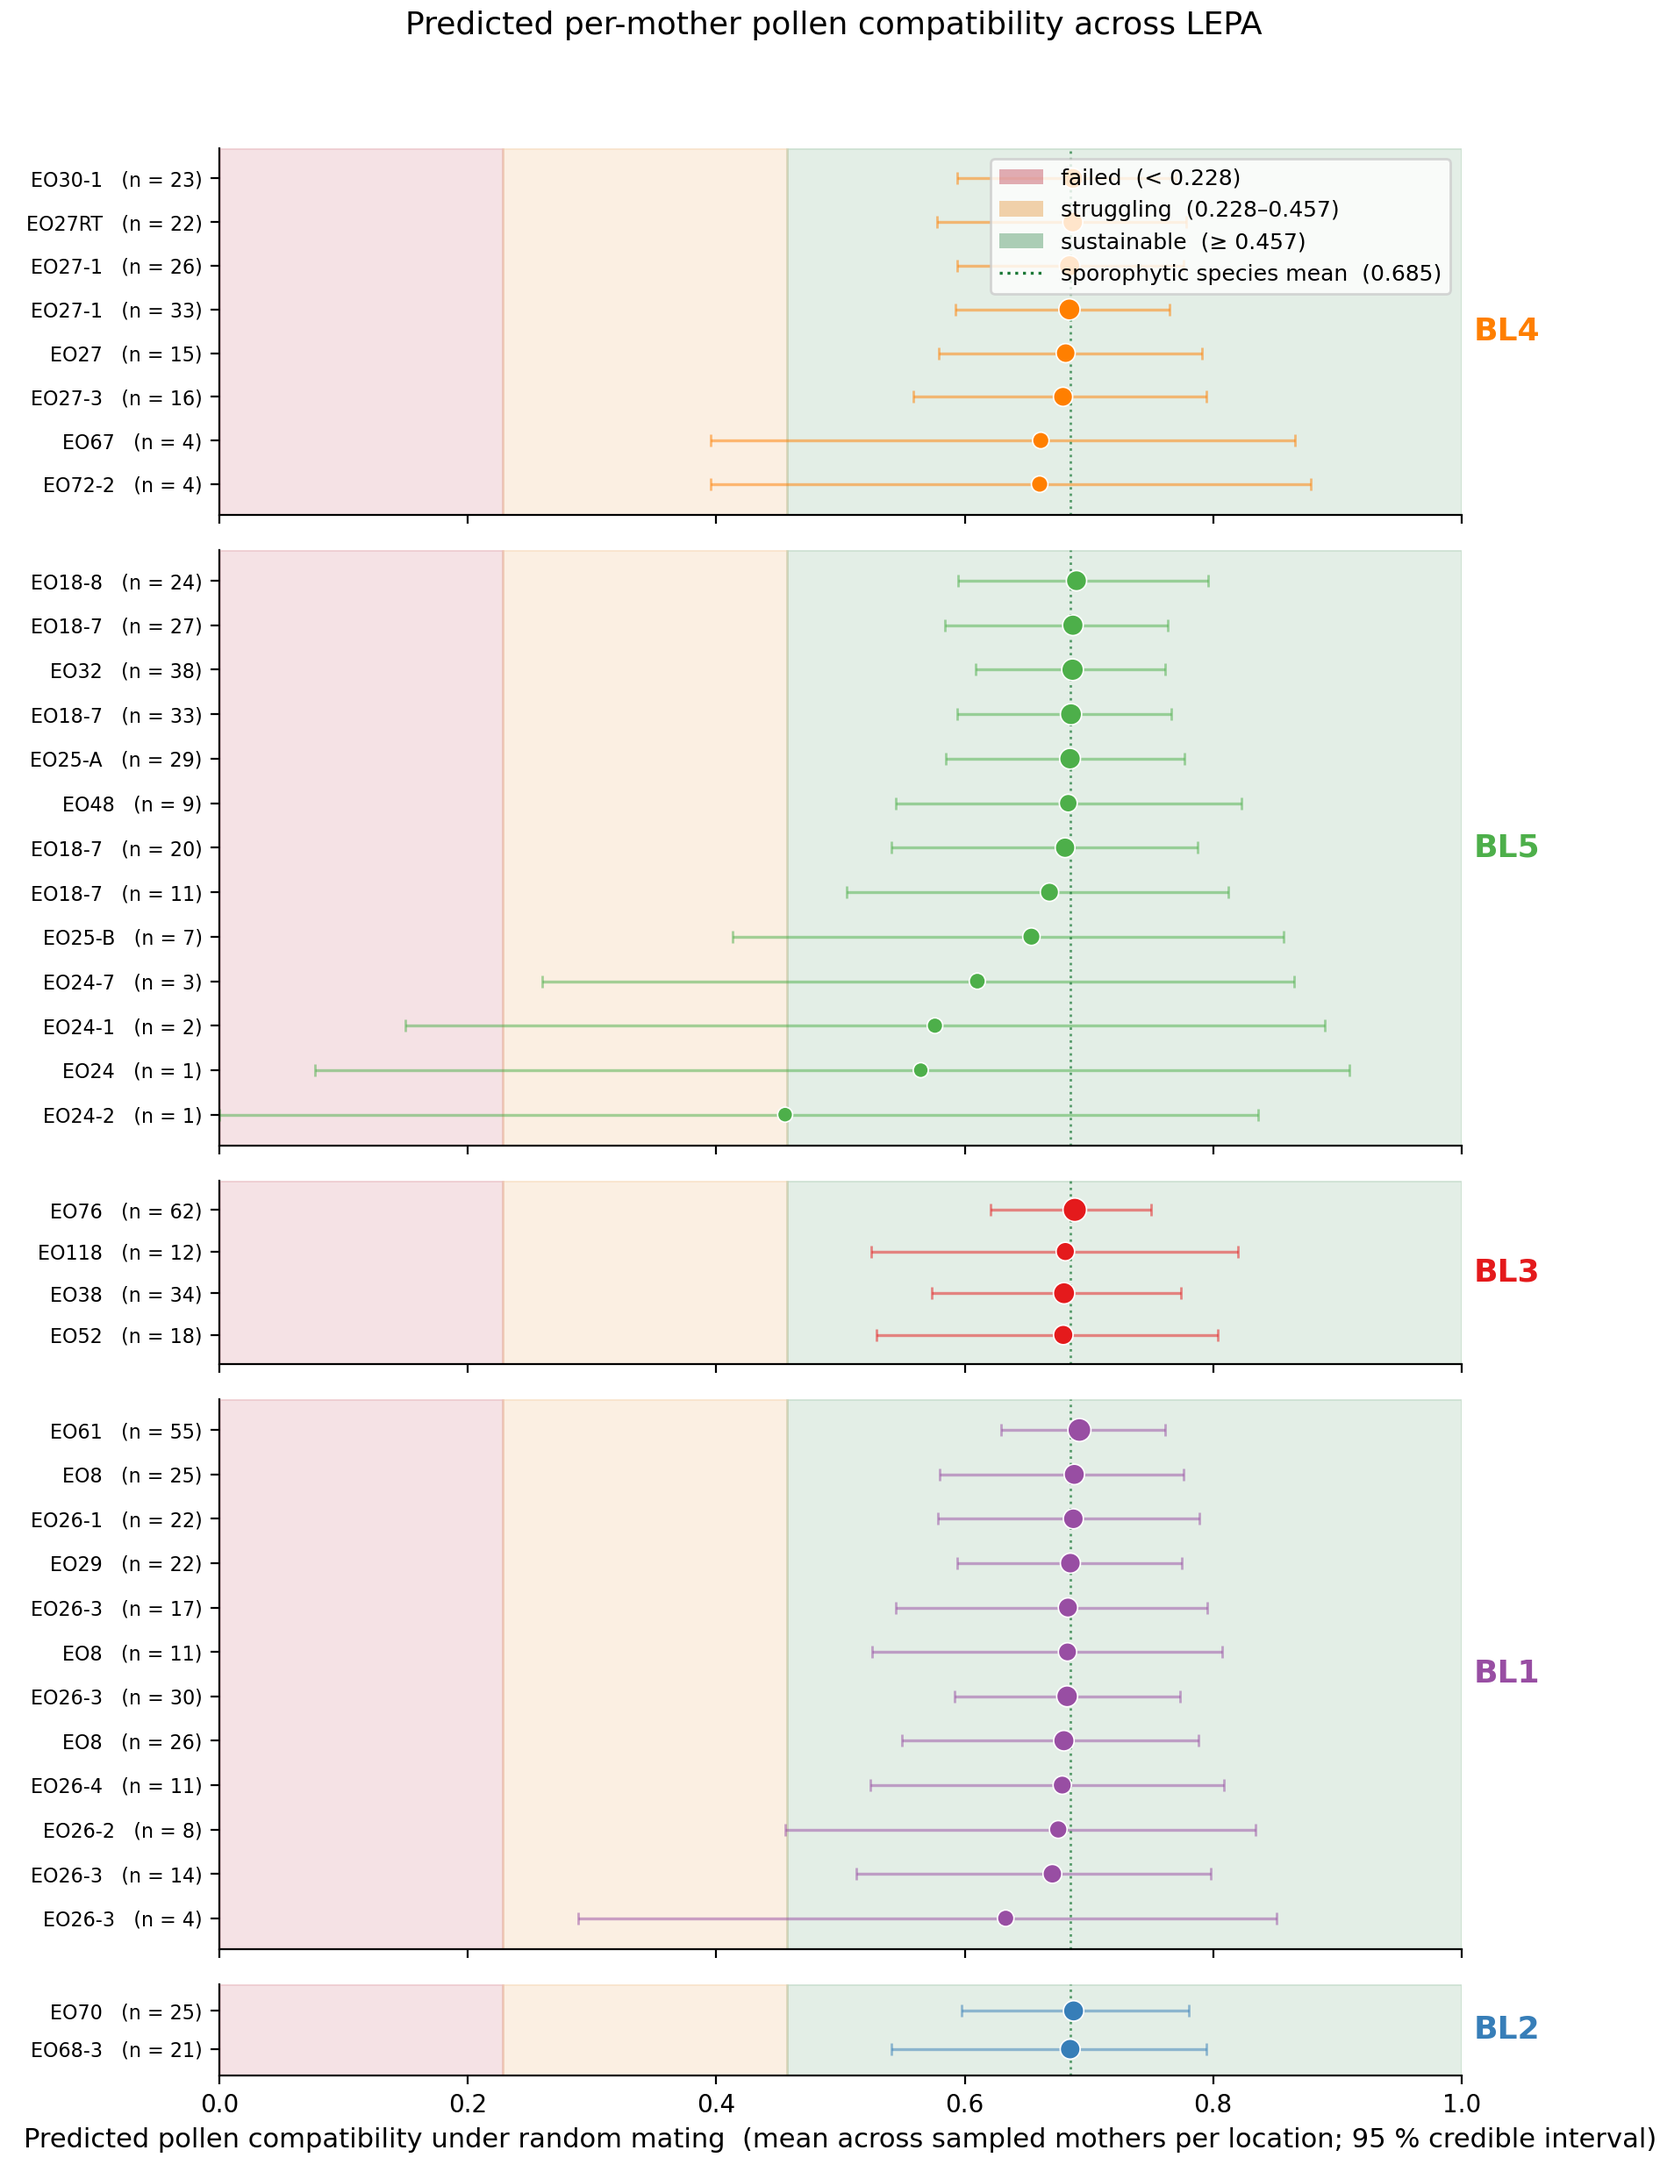
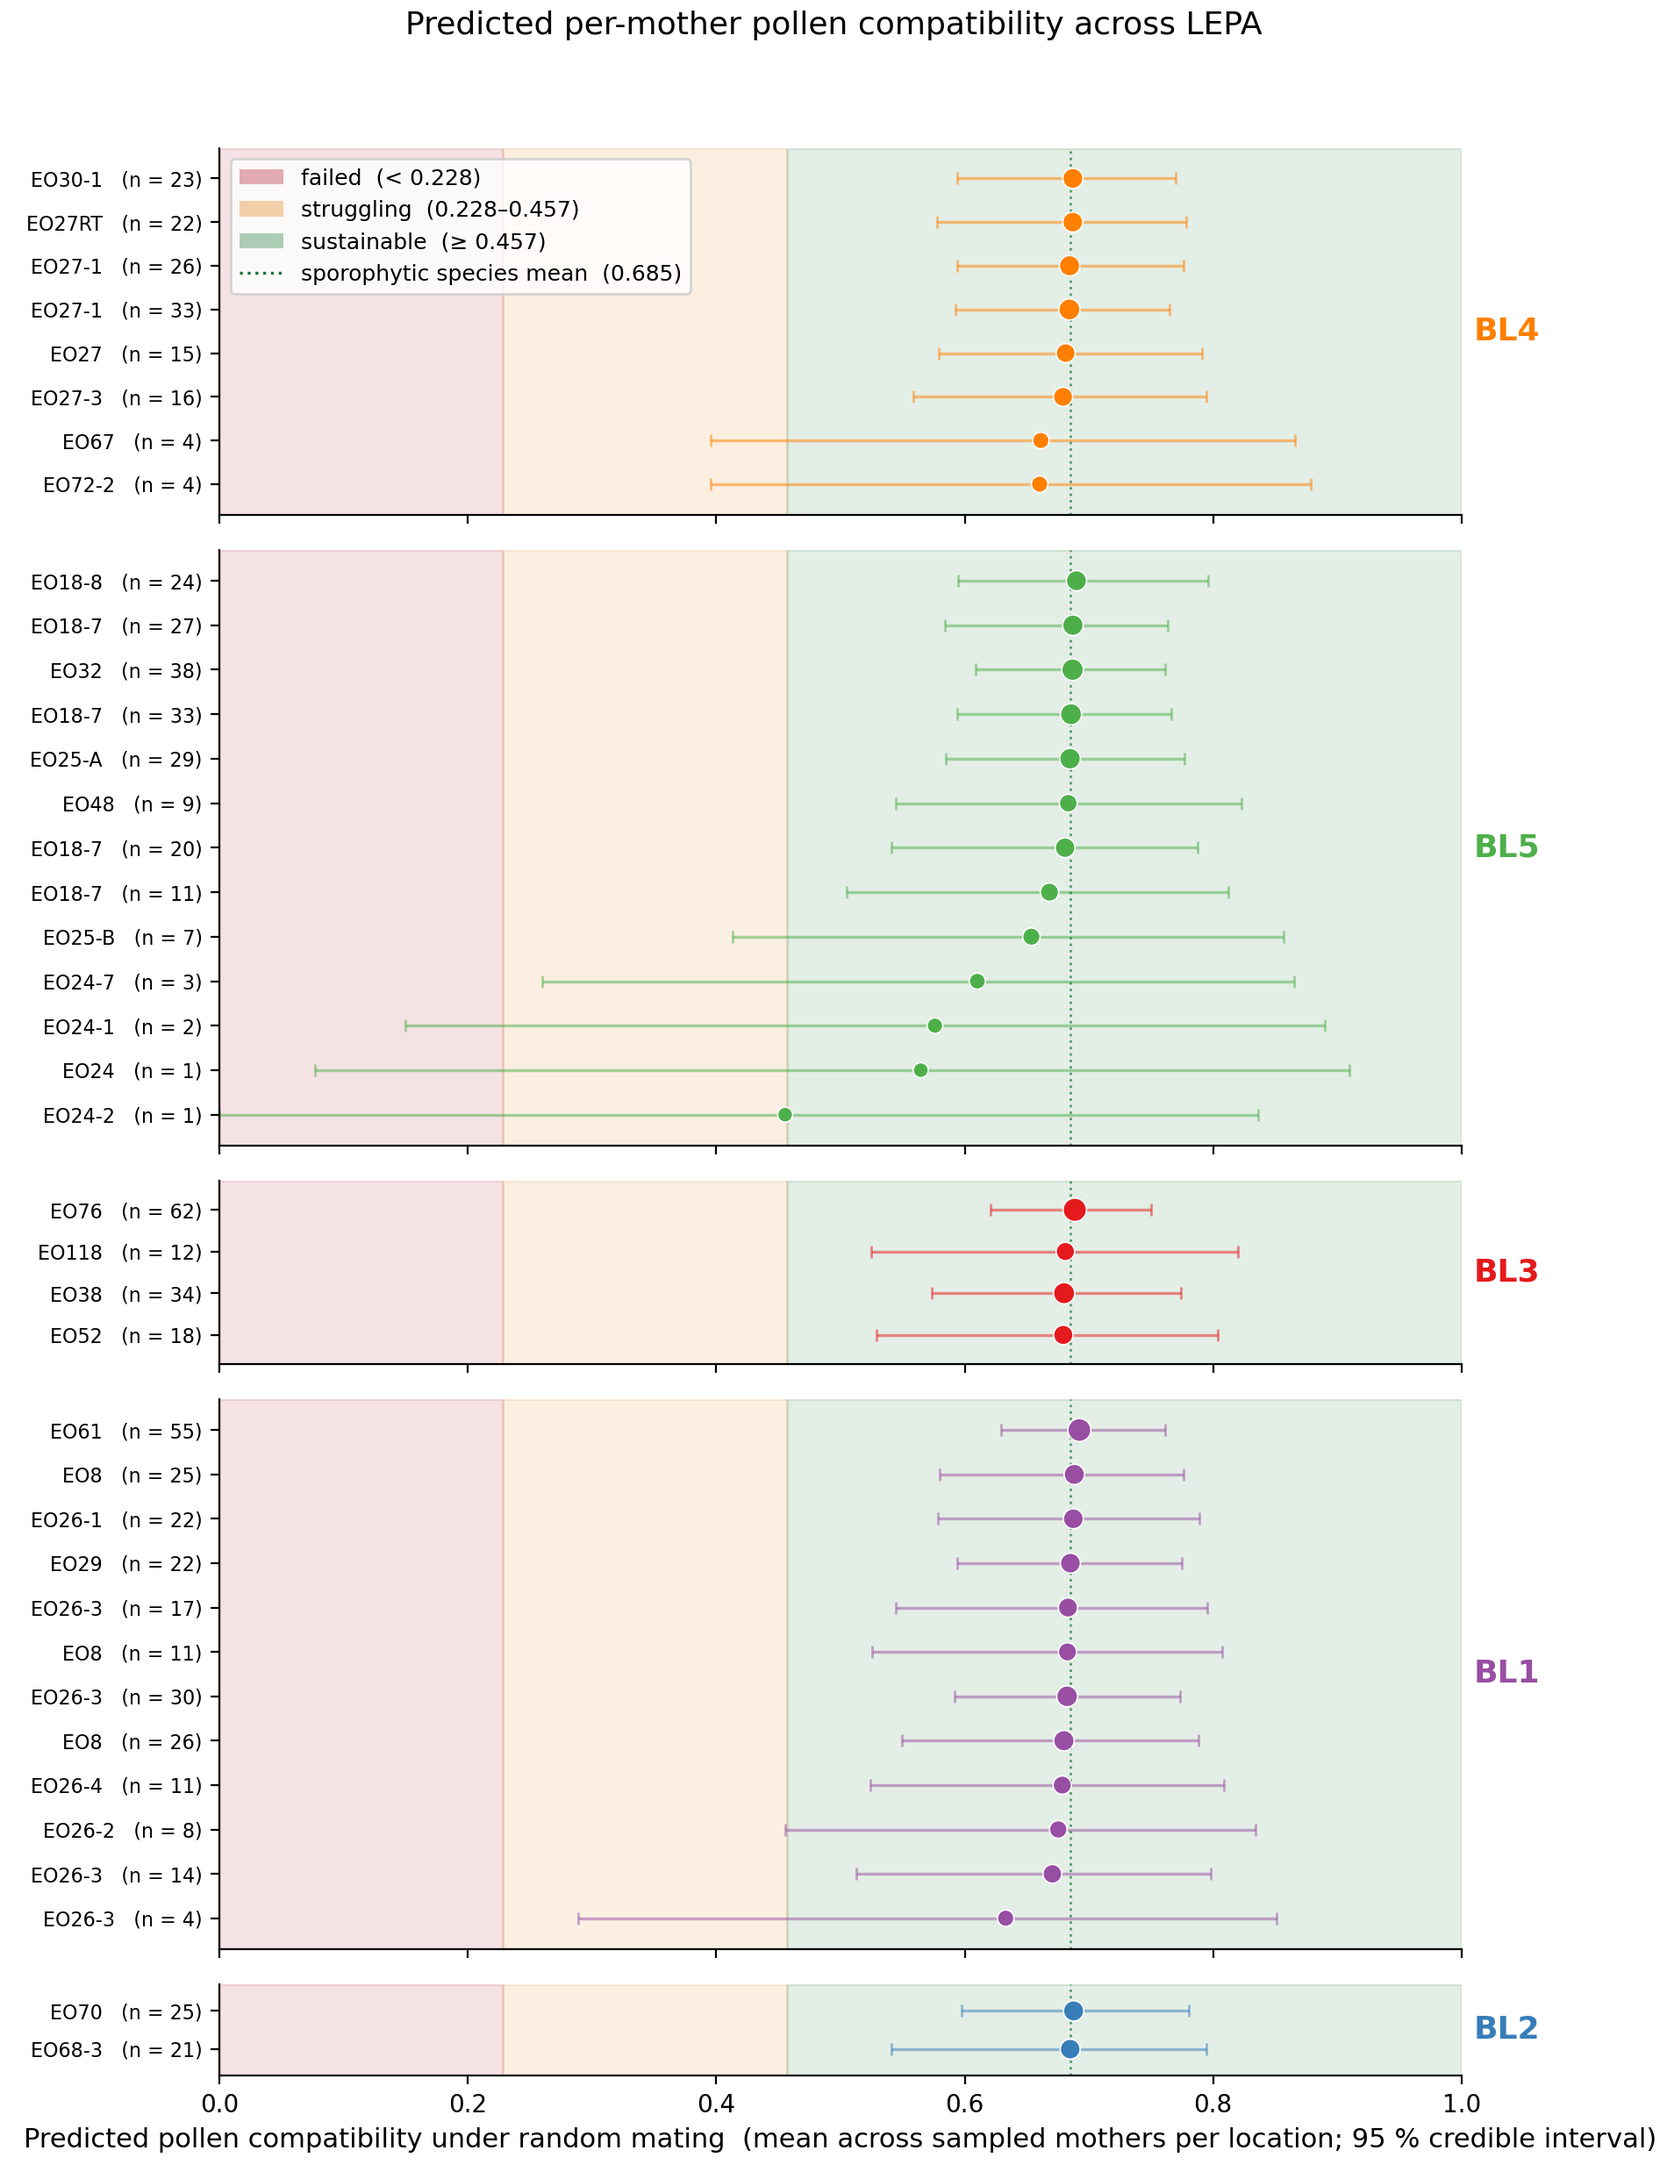
Fig 4 (fecundation): move legend to upper-left
All 39 LEPA locations sit near species-mean 0.685 under the empirical
zygosity model, which puts every dot on the right half of the panel.
The upper-right legend was overlapping the top rows of the BL4 panel.
Moved to upper-left where the 'failed' band is empty of data.

Changed region(s): [[0.1242, 0.062, 0.3416, 0.155], [0.59, 0.062, 0.7763, 0.155], [0.3726, 0.124, 0.4037, 0.155]]

diff --git a/Scripts/step30_srk_diversity_prediction_vs_observed.py b/Scripts/step30_srk_diversity_prediction_vs_observed.py
@@ -939,7 +939,7 @@ def plot_prediction_fecundation(pcompat_per_loc: pd.DataFrame,
         Line2D([0], [0], color="#1b7837", ls=":", lw=1.2,
                label=f"sporophytic species mean  ({SPECIES_MEAN:.3f})"),
     ]
-    axes[0].legend(handles=tl_handles, loc="upper right",
+    axes[0].legend(handles=tl_handles, loc="upper left",
                     fontsize=9, frameon=True)
 
     axes[-1].set_xlabel(
